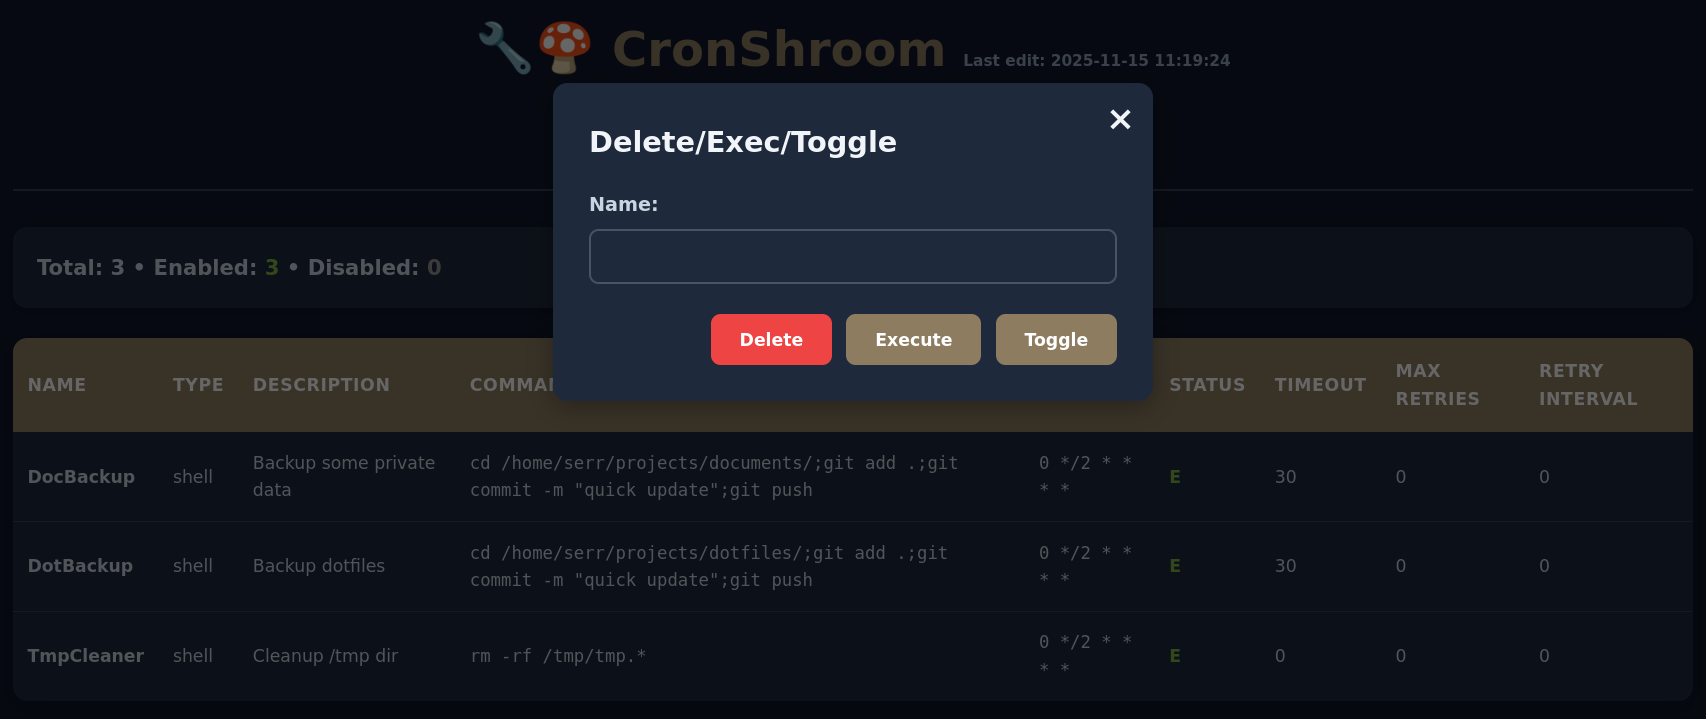
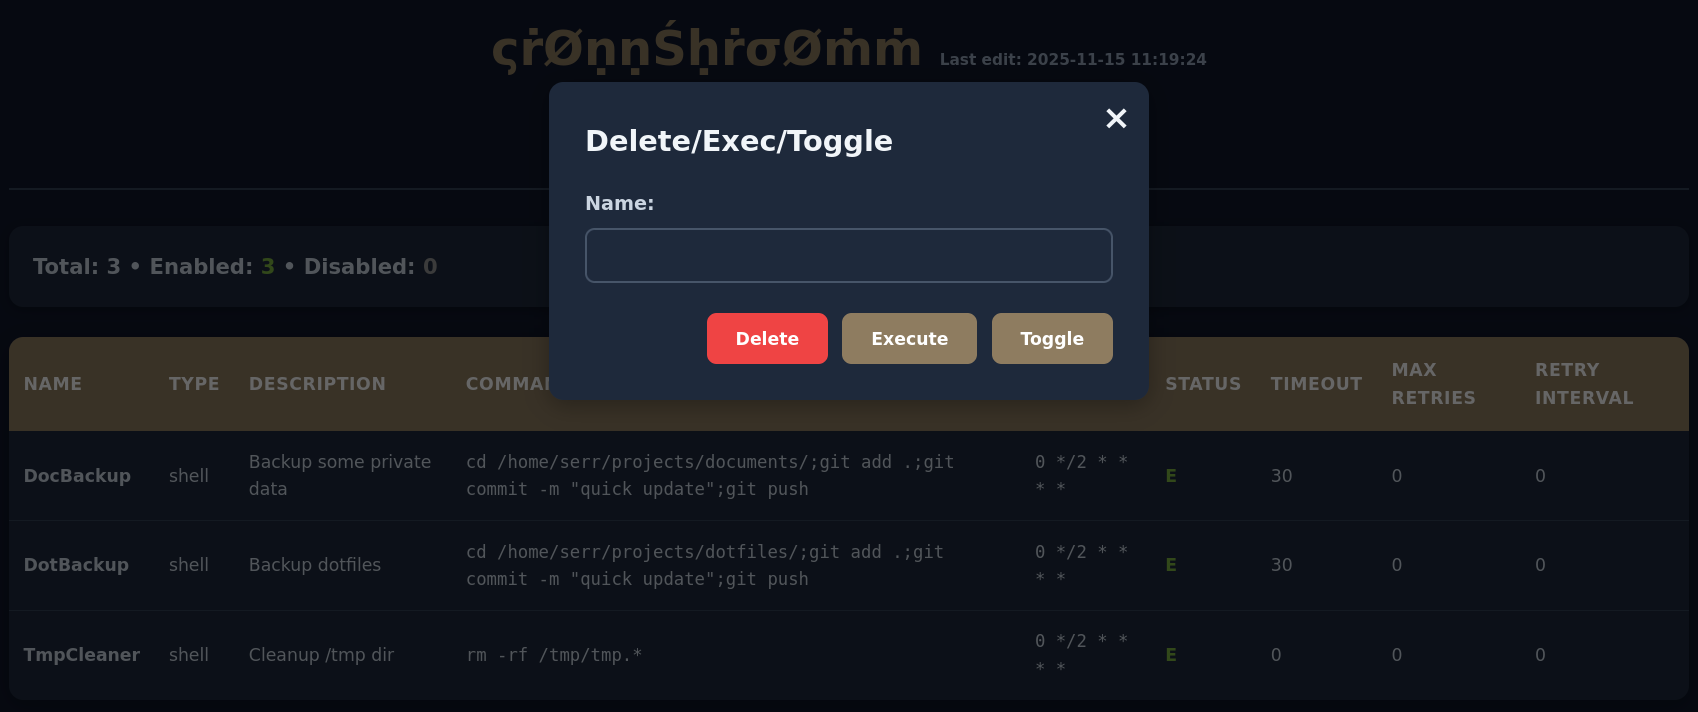
change title

diff --git a/src/gui/resources/templates/list.html b/src/gui/resources/templates/list.html
@@ -11,7 +11,9 @@
     <div class="container">
         <div class="header">
             <h1>
-                <a target="_blank" href="https://github.com/laserattack/CronShroom">{{.Title}}</a>
+                <a target="_blank" href="https://github.com/laserattack/CronShroom">
+                    <span>{{.Title}}</span>
+                </a>
                 <span id="lastUpdate" class="last-update"></span>
             </h1>
             <h1>
@@ -122,6 +124,5 @@
     </div>
 
     <script src="/static/script.js?v={{.RenderTimestamp}}"></script>
-
 </body>
 </html>

diff --git a/src/gui/routes.go b/src/gui/routes.go
@@ -239,7 +239,7 @@ func listHandler(
 			Title           string
 			RenderTimestamp int64
 		}{
-			Title:           "🔧🍄 CronShroom",
+			Title:           "ςṙØṇṇŚḥṙσØṁṁ",
 			RenderTimestamp: time.Now().Unix(),
 		}
 
